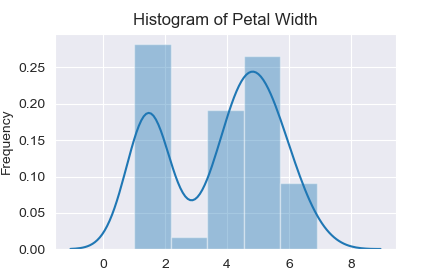
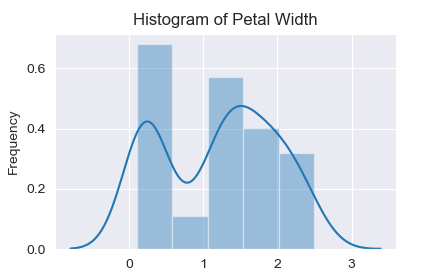
Latest Update - corrected histogram petal width

diff --git a/analysis.py b/analysis.py
@@ -112,7 +112,7 @@ plt.close()
 # Creates a histogram of petal width
 sns.set_style('darkgrid')
 plt.figure(figsize=(4.4,2.8))
-sns.distplot(iris_df[c])
+sns.distplot(iris_df[d])
 plt.title('Histogram of Petal Width')
 plt.xlabel('')
 plt.ylabel('Frequency')
